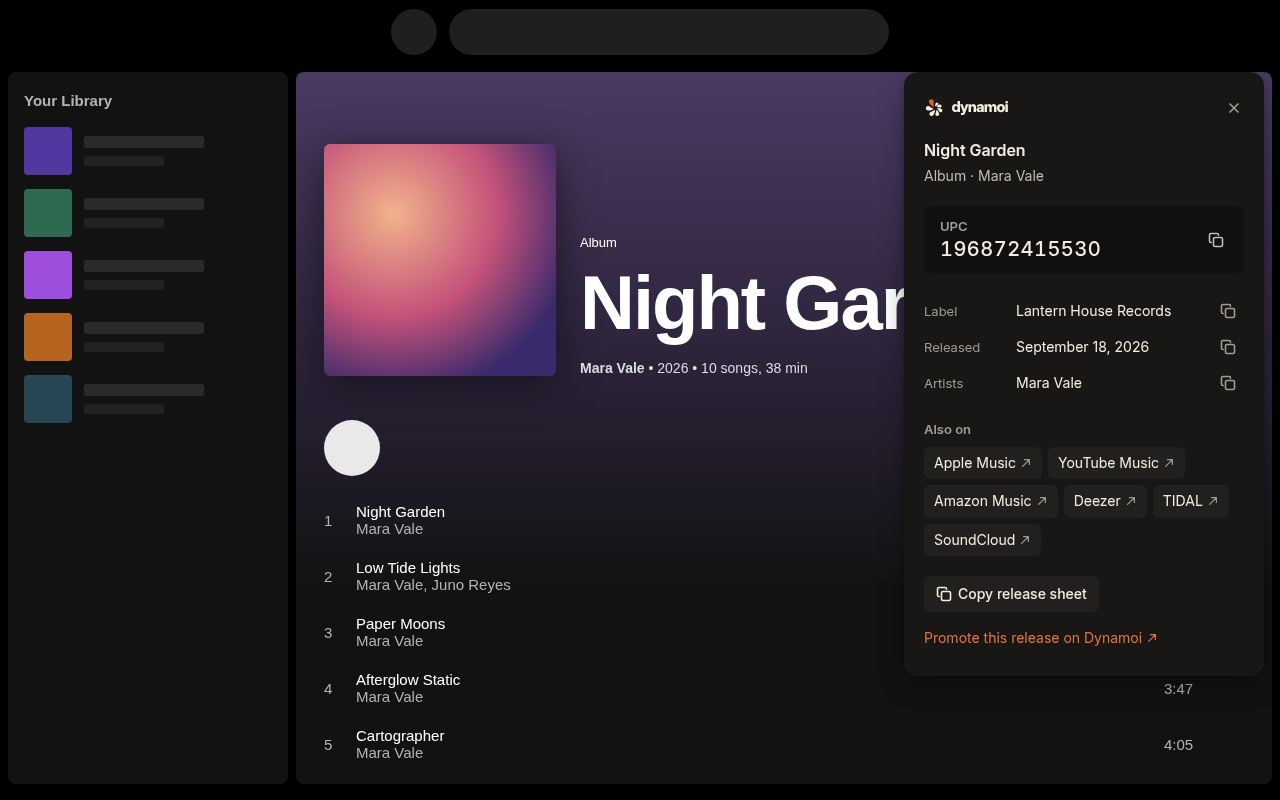
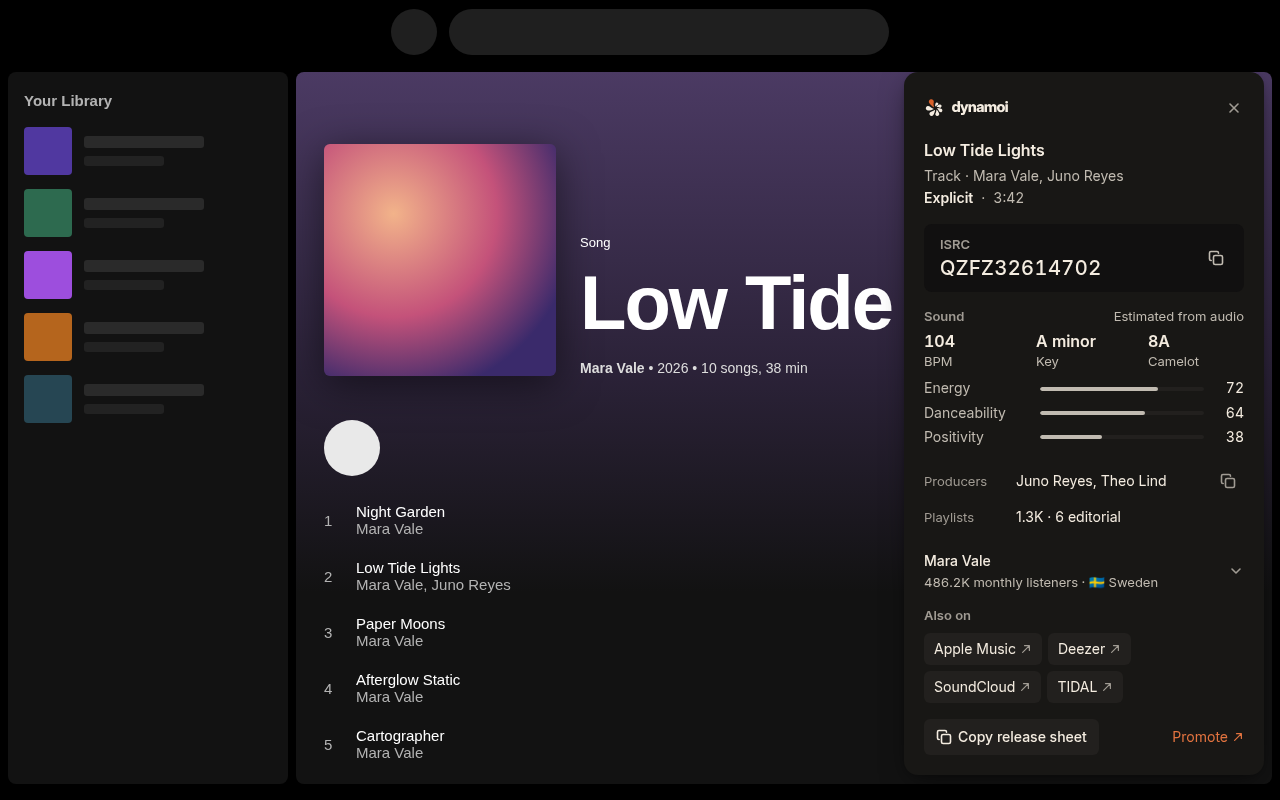
sync: apps/chrome-extension @ 00c2de4e613ed0786dcb6c4e516d38907e120860

diff --git a/README.md b/README.md
@@ -13,7 +13,7 @@ check your own release metadata or research comparable releases. No account
 needed, nothing to set up.
 
 <p align="center">
-  <img alt="The Dynamoi card on a Spotify album page, showing the UPC, label, release date, artists and links to other stores" src="./.github/screenshot.png" width="720">
+  <img alt="The Dynamoi card on a Spotify track page, showing the ISRC, audio-based sound estimates, producers, playlists, the lead artist and links to other stores" src="./.github/screenshot.png" width="720">
 </p>
 
 ## What it does
